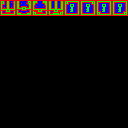
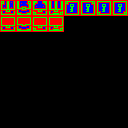
Adding open chest gfx.

Changed region(s): [[0.0, 0.125, 0.5, 0.25]]

diff --git a/main.c b/main.c
@@ -73,10 +73,10 @@ static GameState board(void){
 	grid_set_block(1,  8, 3);
 	grid_set_block(2, 10, 4);
 	grid_set_block(2,  8, 5);
-	grid_set_block(3,  8, 5);
-	grid_set_block(4,  6, 6);
-	grid_set_block(5,  7, 7);
-	grid_set_block(6,  8, 8);
+	grid_set_block(3,  8, 9);
+	grid_set_block(4,  6, 10);
+	grid_set_block(5,  7, 11);
+	grid_set_block(6,  8, 12);
 	
 	return loop();
 }
@@ -130,6 +130,6 @@ GameState main(void){
 	px_addr(0x3F00);
 	px_blit(32, (u8 *)PALETTE);
 	
-	// return debug_chr();
+	return debug_chr();
 	return board();
 }

diff --git a/grid.c b/grid.c
@@ -53,6 +53,7 @@ void grid_update(void){
 			
 			idx -= GRID_W;
 			if(GRID[idx] == 0 && above != 0){
+				// TODO split this across frames to avoid using so much buffer memory?
 				grid_set_block(ix, frames, above);
 				grid_set_block(ix, frames + 1, 0);
 			}
